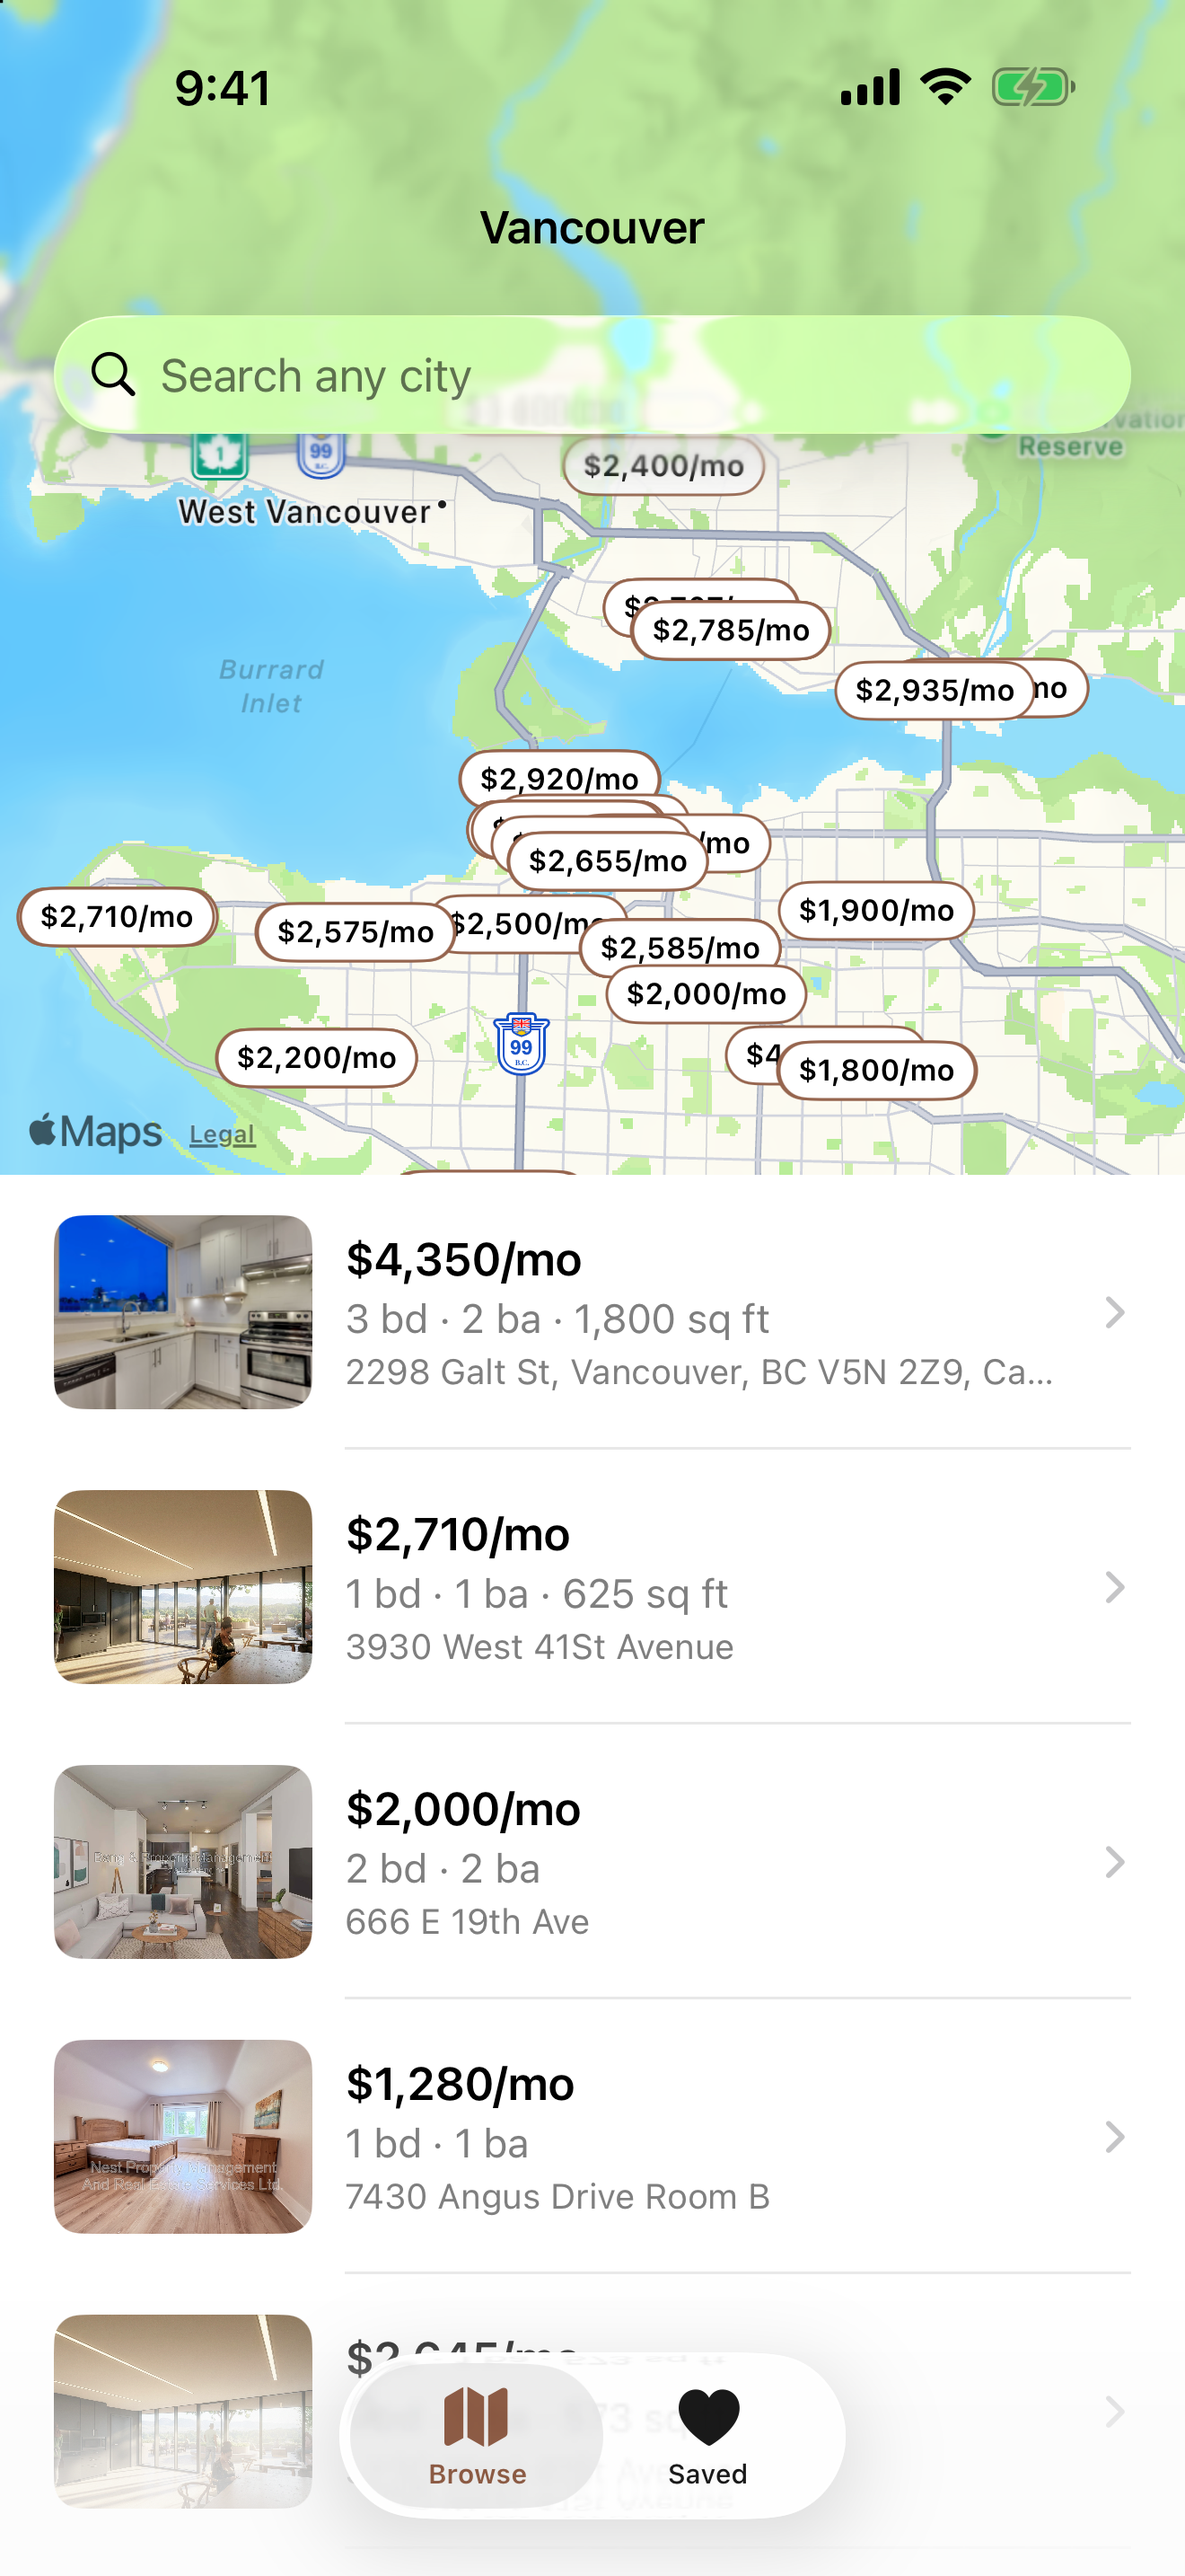
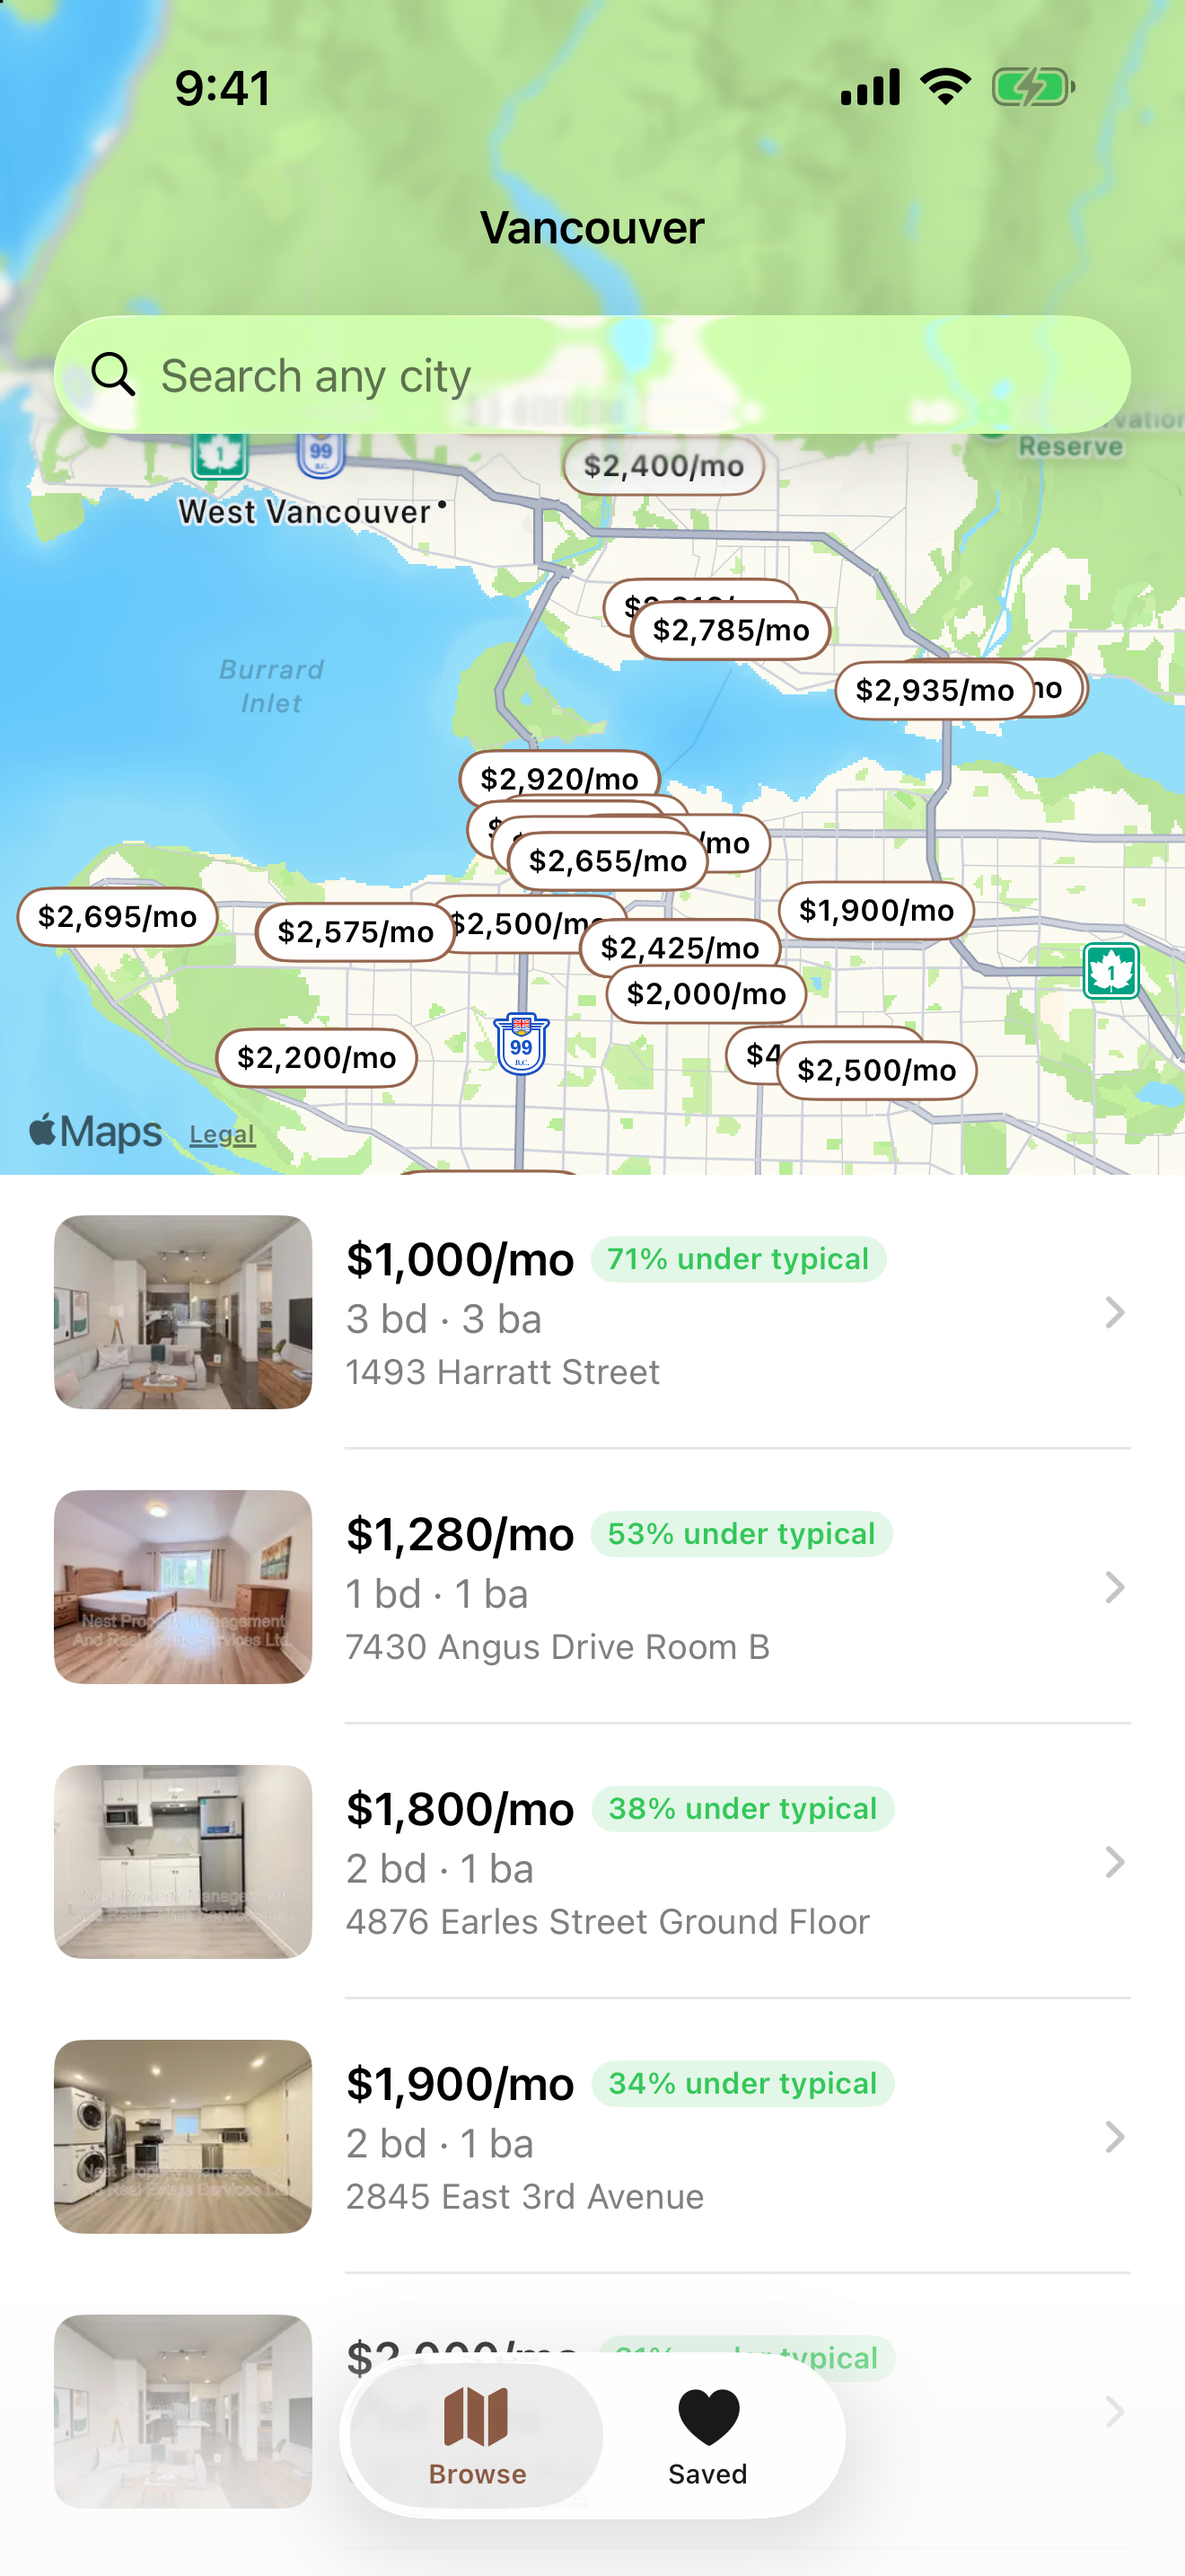
Deal ranking on iPhone; single rooms never count as deals
Claude-Session: https://claude.ai/code/session_01Wh5xVEdDmj7gU4udfwXwRM

diff --git a/ios/Sources/Store.swift b/ios/Sources/Store.swift
@@ -20,6 +20,12 @@ struct Listing: Codable, Identifiable, Hashable, Sendable {
     let photos: [String]
     let year: Int?
     let listedDaysAgo: Int?
+    // Percent under the median for the same bedroom count, set by Store. Same rule as src/lib/deals.js.
+    var deal = 0
+
+    private enum CodingKeys: String, CodingKey {
+        case id, source, url, address, city, currency, imperial, mode, price, beds, baths, sqft, type, lat, lng, photos, year, listedDaysAgo
+    }
 
     var priceText: String {
         let p = price.formatted(.currency(code: currency).precision(.fractionLength(0)))
@@ -109,7 +115,7 @@ final class Store {
         do {
             let (data, _) = try await URLSession.shared.data(from: c.url!)
             let feed = try JSONDecoder().decode(Feed.self, from: data)
-            listings = feed.listings.compactMap(\.value)
+            listings = Self.rankByDeal(feed.listings.compactMap(\.value))
             if let m = feed.modes, !m.isEmpty { modes = m }
         } catch is CancellationError {
         } catch {
@@ -117,6 +123,19 @@ final class Store {
             listings = []
             failed = true
         }
+    }
+
+    static func rankByDeal(_ homes: [Listing]) -> [Listing] {
+        let byBeds = Dictionary(grouping: homes, by: { Int($0.beds) }).mapValues { $0.map(\.price).sorted() }
+        return homes.map { l in
+            var l = l
+            let p = byBeds[Int(l.beds)] ?? []
+            let typical = p.count < 3 ? 0 : (p.count % 2 == 1 ? p[p.count / 2] : (p[p.count / 2 - 1] + p[p.count / 2]) / 2)
+            let isRoom = (l.address ?? "").range(of: #"\broom\b"#, options: [.regularExpression, .caseInsensitive]) != nil
+            l.deal = typical > 0 && !isRoom ? Int(((typical - l.price) / typical * 100).rounded()) : 0
+            return l
+        }
+        .sorted { $0.deal > $1.deal }
     }
 
     func search(_ query: String) async -> [Place] {

diff --git a/ios/Sources/BrickApp.swift b/ios/Sources/BrickApp.swift
@@ -148,7 +148,16 @@ struct ListingRow: View {
                 .frame(width: 96, height: 72)
                 .clipShape(RoundedRectangle(cornerRadius: 10))
             VStack(alignment: .leading, spacing: 3) {
-                Text(listing.priceText).font(.headline)
+                HStack(spacing: 6) {
+                    Text(listing.priceText).font(.headline)
+                    if listing.deal >= 5 {
+                        Text("\(listing.deal)% under typical")
+                            .font(.caption2.weight(.semibold))
+                            .padding(.horizontal, 6).padding(.vertical, 2)
+                            .background(.green.opacity(0.14), in: Capsule())
+                            .foregroundStyle(.green)
+                    }
+                }
                 Text(listing.statsText).font(.subheadline).foregroundStyle(.secondary)
                 Text(listing.address ?? listing.city ?? "").font(.footnote).foregroundStyle(.secondary).lineLimit(1)
             }
@@ -174,6 +183,9 @@ struct ListingDetail: View {
 
                 VStack(alignment: .leading, spacing: 6) {
                     Text(listing.priceText).font(.largeTitle.bold())
+                    if listing.deal >= 5 {
+                        Text("\(listing.deal)% under typical for its size nearby").font(.subheadline.weight(.semibold)).foregroundStyle(.green)
+                    }
                     Text(listing.statsText).font(.title3).foregroundStyle(.secondary)
                     Text(listing.address ?? listing.city ?? "")
                     if let days = listing.listedDaysAgo {

diff --git a/src/lib/deals.js b/src/lib/deals.js
@@ -10,6 +10,9 @@ function median(values) {
   return s.length % 2 ? s[mid] : (s[mid - 1] + s[mid]) / 2
 }
 
+// A single room in a shared house is not comparable to a whole unit.
+const room = /\broom\b/i
+
 export function scoreDeals(listings) {
   const groups = new Map()
   for (const l of listings) {
@@ -19,7 +22,7 @@ export function scoreDeals(listings) {
   }
   return listings.map(l => {
     const prices = groups.get(Math.floor(l.beds))
-    const typical = prices.length >= 3 ? median(prices) : 0
+    const typical = prices.length >= 3 && !room.test(l.address || '') ? median(prices) : 0
     return { ...l, deal: typical ? Math.round(((typical - l.price) / typical) * 100) : 0 }
   })
 }
